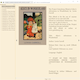
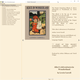
website: update screenshots

diff --git a/do/optimize_images.go b/do/optimize_images.go
@@ -5,7 +5,9 @@ import (
 	"os"
 	"os/exec"
 	"path/filepath"
+	"runtime"
 	"strings"
+	"sync"
 )
 
 // run optipng in parallel
@@ -38,6 +40,9 @@ func optimizeAllImages() {
 	panicIf(err != nil, "optipng is not installed")
 
 	dirsToVisit := []string{filepath.Join("website", "img"), filepath.Join("website", "docs", "img")}
+	nThreads := runtime.NumCPU()
+	sem := make(chan bool, nThreads)
+	var wg sync.WaitGroup
 	for len(dirsToVisit) > 0 {
 		dir := dirsToVisit[0]
 		dirsToVisit = dirsToVisit[1:]
@@ -50,7 +55,55 @@ func optimizeAllImages() {
 				//dirsToVisit = append(dirsToVisit, path)
 				continue
 			}
-			maybeOptimizeImage(path)
+			sem <- true
+			wg.Add(1)
+			go func(path string) {
+				maybeOptimizeImage(path)
+				<-sem
+				wg.Done()
+			}(path)
+		}
+	}
+	wg.Wait()
+}
+
+// makes -small.png variant of screenshot file sin website\img
+func makeSmallImages() {
+	{
+		cmd := exec.Command("magick", "-version")
+		err := cmd.Run()
+		if err != nil {
+			logf("ImageMagick doesn't seem to be installed\n")
+			logf("You can install it with: choco install -y imagemagick\n")
+			os.Exit(1)
+		}
+	}
+
+	dirsToVisit := []string{filepath.Join("website", "img")}
+	for len(dirsToVisit) > 0 {
+		dir := dirsToVisit[0]
+		dirsToVisit = dirsToVisit[1:]
+		files, err := ioutil.ReadDir(dir)
+		must(err)
+		for _, f := range files {
+			if f.IsDir() {
+				//dirsToVisit = append(dirsToVisit, path)
+				continue
+			}
+			name := f.Name()
+			ext := strings.ToLower(filepath.Ext(name))
+			if ext != ".png" {
+				continue
+			}
+			if strings.Contains(name, "-small") {
+				continue
+			}
+			dstName := strings.Split(name, ".")[0] + "-small.png"
+			cmd := exec.Command("magick", "convert", name, "-resize", "80x80", dstName)
+			logf("> %s\n", cmd.String())
+			cmd.Dir = dir
+			err := cmd.Run()
+			must(err)
 		}
 	}
 }

diff --git a/do/main.go b/do/main.go
@@ -157,6 +157,7 @@ func main() {
 		flgBuildNo                = false
 		flgBuildLzsa              = false
 		flgOptimizeImages         = false
+		flgMakeSmallImages        = false
 	)
 
 	var (
@@ -238,6 +239,11 @@ func main() {
 
 	if flgOptimizeImages {
 		optimizeAllImages()
+		return
+	}
+
+	if flgMakeSmallImages {
+		makeSmallImages()
 		return
 	}
 
